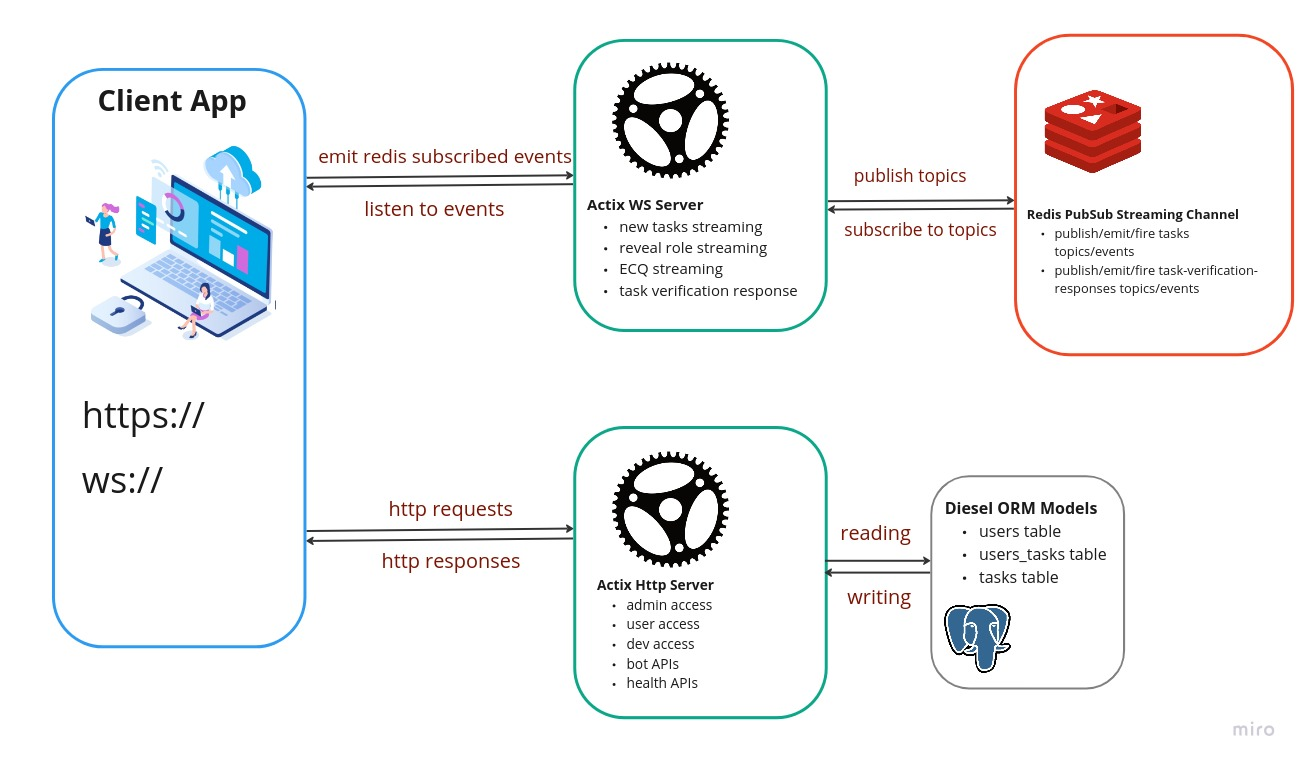
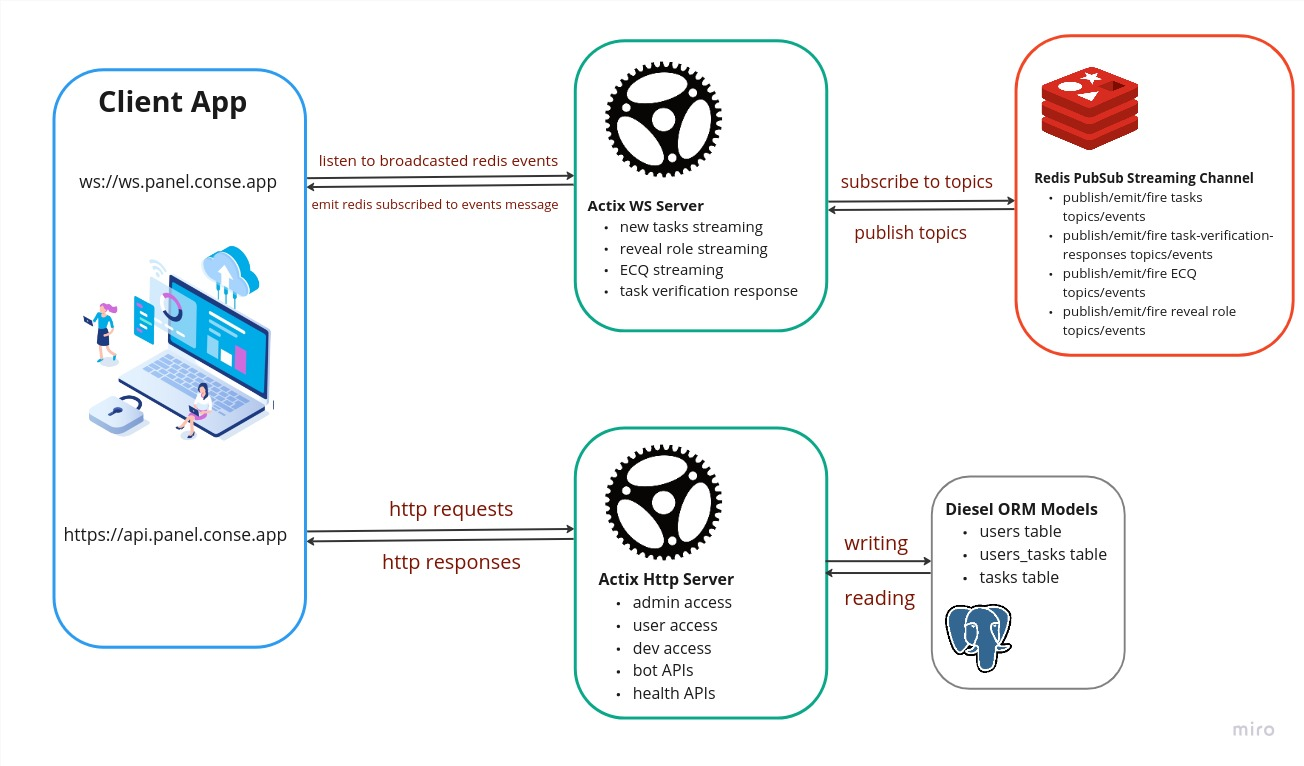
better schemas

diff --git a/core/contexts/panel/events/redis/ecq.rs b/core/contexts/panel/events/redis/ecq.rs
@@ -3,7 +3,7 @@
 
 // https://github.com/wildonion/redis4
 // admins or gods can collaborate with others and share their events using redis based ecq 
-// fire, emit or publish a redis event or topic like ecq event
+// fire, emit or publish a redis event or topic like ecq event for a specific event id like `ecq-{event_id}`
 
 
 

diff --git a/README.md b/README.md
@@ -217,7 +217,7 @@ cd scripts
 
 * conse client can subscribes to the fired or emitted events and topics like role reveal, ecq, new tasks and task verification logs and see notifications coming from redis docker server by sending websocket packets to the actix websocket server.
 
-* pubsub new task topic and task verification response are `tasks` and `task-verification-responses` respectively.   
+* pubsub new task, twitter task verification response, **ECQ** and reveal role topics are `tasks`, `task-verification-responses`, `ecq-{event_id}`, `reveal-role-{event_id}` respectively.   
 
 * twitter task names defined by admins, must be prefixed with `twitter-*` and are twitter activities such as tweet, like, hashtag and retweet that must be done to reward users by scores of each task.
 
@@ -233,7 +233,7 @@ cd scripts
 
 * redis pubsub streaming to publish reveal role, new task, twitter task verification responses and ecq (for registered events) topics  
 
-* websocket server for streaming over redis subscribed topics.
+* websocket server for streaming over redis subscribed topics + setup it's nginx config file
 
 * redis response caching 
 
